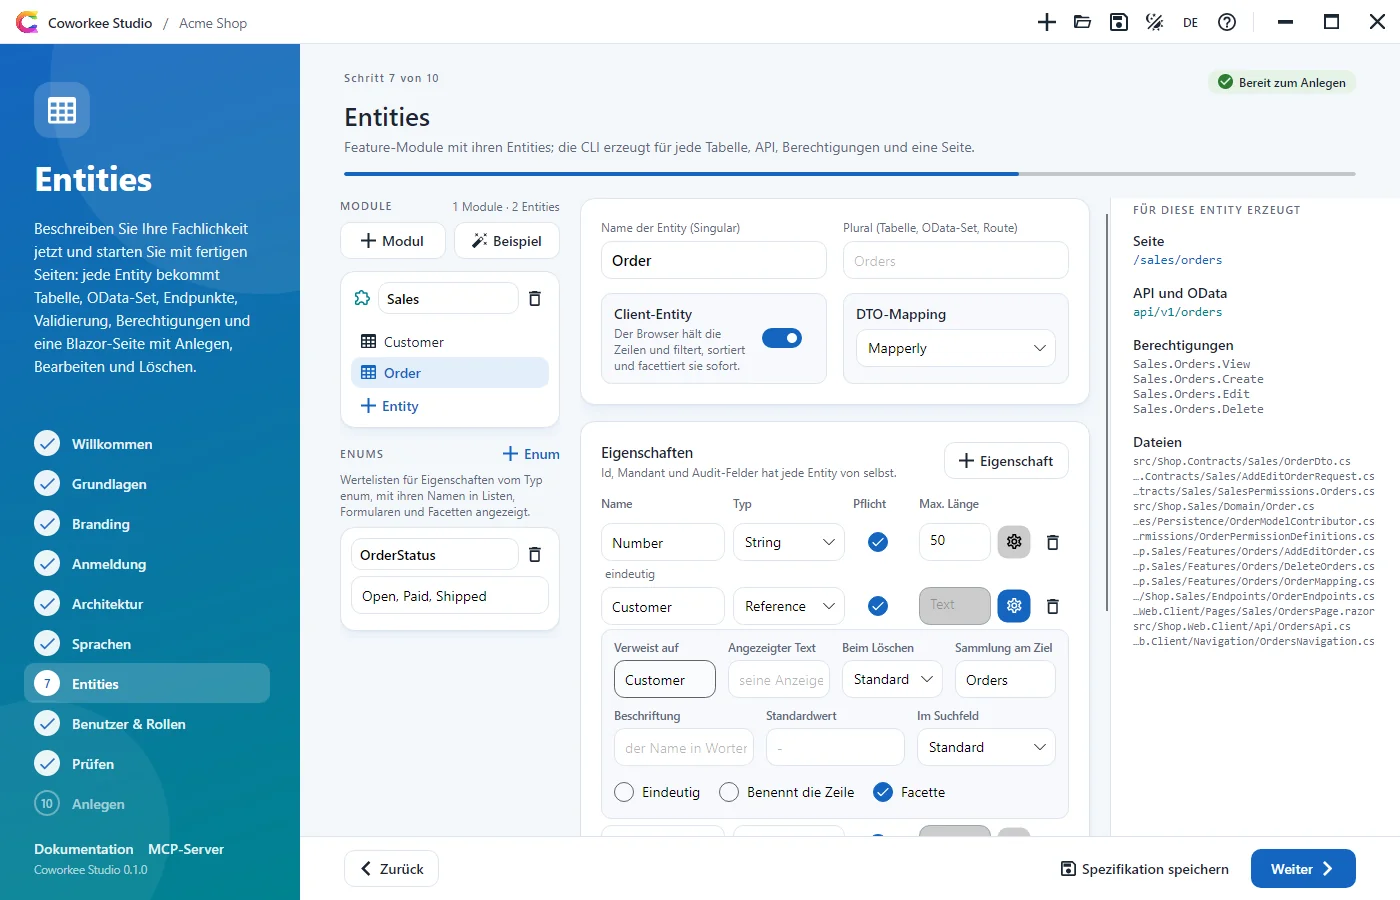
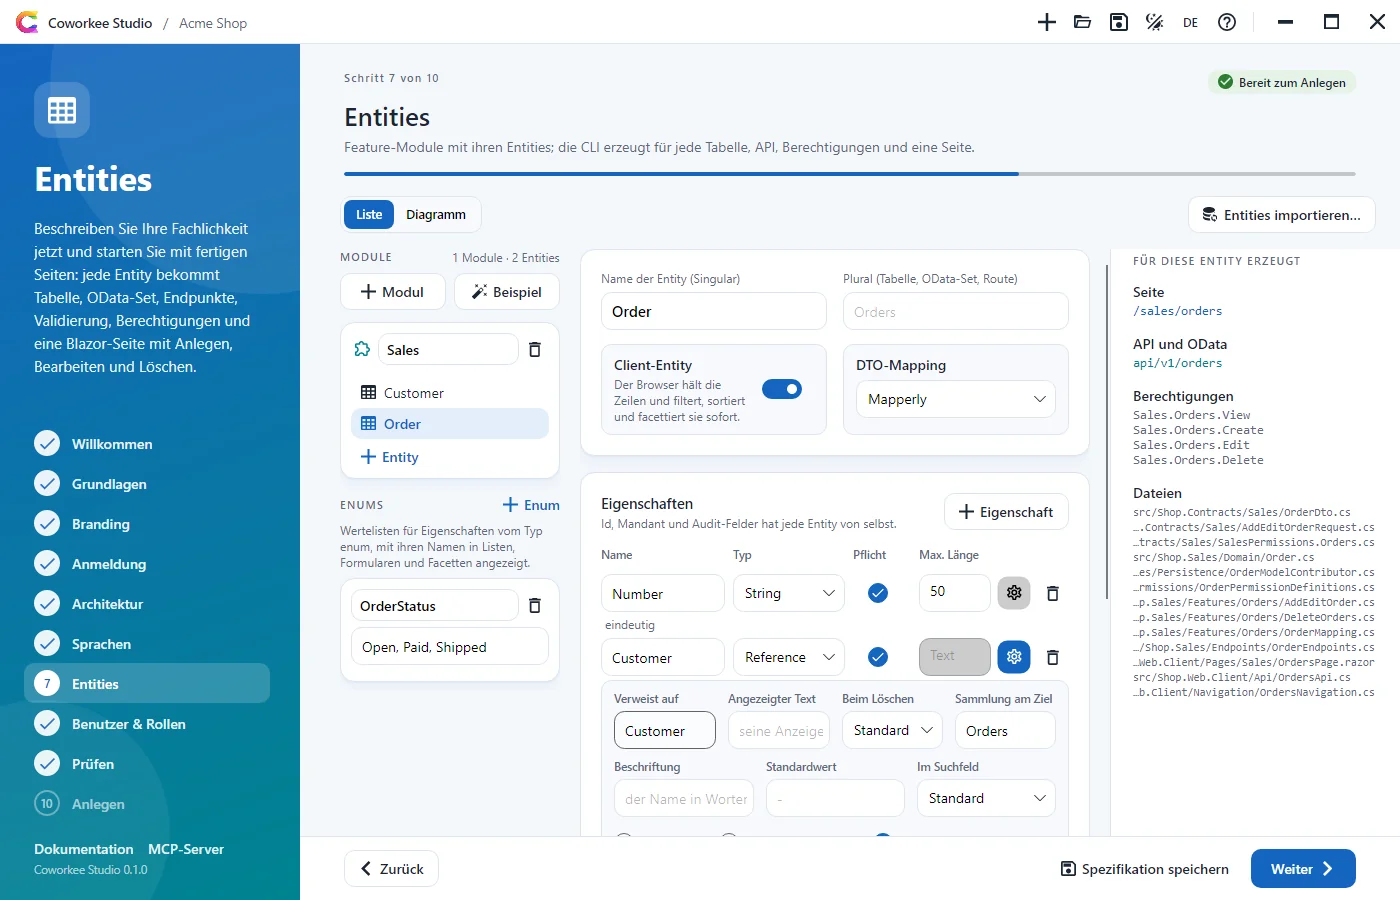
docs: entity import in the CLI, MCP and Studio pages, the entity diagram; Studio entity screenshots regenerated

diff --git a/website/docs/getting-started/cli.de.md b/website/docs/getting-started/cli.de.md
@@ -204,6 +204,28 @@ coworkee migrations add AddSales
 
 `--property` liest `Name[:typ][:required][:maxLänge][:flag][:schlüssel=wert]` (Standard: `Name:string:required:200`). Flags: `required`, `unique`, `display`, `facet`, `searchable`. Schlüssel wie in einer Spezifikation: `enum`, `ref` (oder `reference`), `referenceDisplay`, `onDelete`, `inverse`, `default`, `label`, `precision`, `scale`, `searchable`. `--enum Name=Wert1,Wert2` legt ein Enum in den Contracts an. Eine Referenz darf auf jede Entity der App mit OData-Set zeigen, erzeugt oder aus den Beispielen (`ref=Catalog.Brand`); das Modul verweist dann auf das Projekt des Ziels. `entity add` braucht ein von der CLI angelegtes Modul.
 
+## Entities importieren
+
+Du hast schon eine Datenbank, eine API oder eine Tabelle? `coworkee entity import` macht daraus ein Modul:
+
+```bash
+coworkee entity import --from db "Host=localhost;Database=shop;Username=app;Password=..." --module Legacy --tables orders,customers
+coworkee entity import --from db legacy.db --dry-run
+coworkee entity import --from openapi https://localhost:7301/openapi/v1.json --module Store
+coworkee entity import --from csv suppliers.csv --spec-out shop.json
+coworkee migrations add ImportLegacy
+```
+
+| Quelle | Was wozu wird |
+|---|---|
+| `db` (Postgres, SQL Server, SQLite) | Tabellen werden Entities, Spalten Eigenschaften mit Typ, Pflicht (not null), maximaler Länge, Stellen und Nachkommastellen, eindeutige Indizes über eine Spalte `unique`, Fremdschlüssel über eine Spalte Referenzen (mit `cascade` oder `setNull`), Enum-Typen von Postgres Enums. Den Provider errät der Befehl aus der Verbindungszeichenfolge (eine vorhandene Datei ist SQLite); `--provider` legt ihn fest. |
+| `openapi` (OpenAPI 3 oder Swagger 2, JSON) | Objekt-Schemas aus `components.schemas` werden Entities (ein Suffix `Dto` fällt weg, `allOf` wird zusammengeführt), String-Enums Enums, `$ref` Referenzen, `format` wählt Datum, Uhrzeit, UUID, E-Mail und URL; `customerId` neben einem importierten `Customer` wird ebenfalls eine Referenz. YAML-Dokumente wandelst du vorher in JSON um. |
+| `csv` | die Kopfzeile benennt die Eigenschaften, die ersten 500 Zeilen verraten ihre Typen (bool, int, long, decimal, guid, Datum, Uhrzeit, Zeitpunkt, E-Mail, URL, String mit maximaler Länge) und ob sie Pflicht sind. |
+
+Namen werden zu C#-Bezeichnern (aus `order_items` wird `OrderItems`), Tabellennamen zur Einzahl (aus `Orders` wird `Order`), Namen, die der erzeugte Code selbst nutzt, bekommen ein Suffix (aus `Task` wird `TaskItem`). Id-, Mandanten- und Audit-Spalten hat jede Entity von selbst, sie fallen weg; ein fachlicher Primärschlüssel bleibt als eindeutige Eigenschaft. Der Befehl zeigt jede Entity und was er ausgelassen hat: Verknüpfungstabellen einer Many-to-many-Beziehung (nicht unterstützt; eine eigene Entity mit zwei Referenzen erledigt das), JSON-, XML-, Binär- und Geo-Spalten, Fremdschlüssel über mehrere Spalten oder auf nicht importierte Tabellen, Listen in einer API.
+
+Ohne `--spec-out` landet das Modul direkt in der App: ein neues Modul in einem Schritt, ein vorhandenes bekommt die Entities nacheinander, referenzierte zuerst. `--spec-out` schreibt das Modul stattdessen in eine Spezifikation (eine vorhandene behält alles andere), `--dry-run` gibt nur die Spezifikation und ihre Probleme aus. Geprüft wird alles wie eine Spezifikation, bevor etwas geschrieben wird.
+
 ## Coworkee Studio
 
 ```bash

diff --git a/website/docs/getting-started/cli.md b/website/docs/getting-started/cli.md
@@ -204,6 +204,28 @@ coworkee migrations add AddSales
 
 `--property` reads `Name[:type][:required][:maxLength][:flag][:key=value]` (default: `Name:string:required:200`). Flags: `required`, `unique`, `display`, `facet`, `searchable`. Keys like in a spec: `enum`, `ref` (or `reference`), `referenceDisplay`, `onDelete`, `inverse`, `default`, `label`, `precision`, `scale`, `searchable`. `--enum Name=Value1,Value2` adds an enum to the contracts. A reference may point to every entity of the app with an OData set, generated or sample (`ref=Catalog.Brand`); the module then references the target's project. `entity add` needs a module created by the CLI.
 
+## Import entities
+
+You have a database, an API or a spreadsheet already? `coworkee entity import` turns it into a module:
+
+```bash
+coworkee entity import --from db "Host=localhost;Database=shop;Username=app;Password=..." --module Legacy --tables orders,customers
+coworkee entity import --from db legacy.db --dry-run
+coworkee entity import --from openapi https://localhost:7301/openapi/v1.json --module Store
+coworkee entity import --from csv suppliers.csv --spec-out shop.json
+coworkee migrations add ImportLegacy
+```
+
+| Source | What becomes what |
+|---|---|
+| `db` (Postgres, SQL Server, SQLite) | tables become entities, columns properties with type, required (not null), maximum length, precision and scale, single-column unique indexes `unique`, single-column foreign keys references (with `cascade` or `setNull`), Postgres enum types enums. The provider is guessed from the connection string (an existing file is SQLite); `--provider` sets it. |
+| `openapi` (OpenAPI 3 or Swagger 2, JSON) | object schemas of `components.schemas` become entities (a `Dto` suffix is dropped, `allOf` is merged), string enums enums, `$ref` references, `format` picks date, time, uuid, email and url; `customerId` next to an imported `Customer` becomes a reference too. YAML documents need converting to JSON first. |
+| `csv` | the header names the properties, the first 500 rows tell their types (bool, int, long, decimal, guid, date, time, date-time, email, url, string with a maximum length) and whether they are required. |
+
+Names become C# identifiers (`order_items` becomes `OrderItems`), table names singular (`Orders` becomes `Order`), names the generated code uses get a suffix (`Task` becomes `TaskItem`). Id, tenant and audit columns come with every entity and are left out; a natural primary key stays as a unique property. The command prints every entity and what it skipped: link tables of a many-to-many relation (not supported; an entity of its own with two references does the job), JSON, XML, binary and spatial columns, foreign keys over several columns or to tables that are not imported, lists in an API.
+
+Without `--spec-out` the module goes straight into the app: a new module in one step, an existing one gets the entities one by one, referenced ones first. `--spec-out` writes the module into a spec file instead (an existing spec keeps everything else), `--dry-run` only prints the spec and its problems. Everything is checked like a spec before anything is written.
+
 ## Coworkee Studio
 
 ```bash

diff --git a/website/docs/getting-started/studio.de.md b/website/docs/getting-started/studio.de.md
@@ -94,6 +94,14 @@ Feature-Module mit ihren Entities: Name, Plural, Client-Entity, DTO-Mapping und 
 
 ![Entities](../assets/screenshots/studio-entities-light-de.webp)
 
+**Diagramm** zeigt dieselben Entities als Kästen mit ihren Eigenschaften; Referenzen sind Linien von der Eigenschaft zum Ziel, mit `*` auf der referenzierenden Seite und `1` (Pflicht) oder `0..1` (optional, gestrichelt) am Ziel. Zieh einen Kasten, um ihn zu verschieben, zieh den Punkt an seinem Kopf auf einen anderen Kasten, um eine Referenz anzulegen (ein kleiner Dialog fragt nach Name, Pflicht und Löschverhalten), zieh den Hintergrund, um die Ansicht zu verschieben, und zoome mit dem Mausrad. Ein Klick auf einen Kasten öffnet die Entity im Editor neben dem Diagramm. **Automatisch anordnen** setzt referenzierte Entities über die, die sie referenzieren, **Als PNG exportieren** speichert das ganze Diagramm als Bild. Die Positionen stehen in der Spezifikation (`layout` einer Entity) und ändern nichts am erzeugten Code.
+
+![Entity-Diagramm](../assets/screenshots/studio-entities-diagram-light-de.webp)
+
+**Entities importieren…** liest eine Datenbank (Verbindungszeichenfolge oder SQLite-Datei), ein OpenAPI-Dokument (Datei oder Adresse) oder eine CSV-Datei, mit demselben Importer wie [`coworkee entity import`](cli.md#entities-importieren). Die Vorschau zeigt die Entities, Enums und alles, was ausgelassen wurde; **Zur Spezifikation hinzufügen** legt sie in ein Modul gleichen Namens oder in ein neues.
+
+![Entities importieren](../assets/screenshots/studio-entities-import-light-de.webp)
+
 ### Benutzer & Rollen
 
 Benutzer und Rollen für die Entwicklung, mit denen die App angelegt wird. Jeder Benutzer hat eine E-Mail, einen Anzeigenamen (ohne Angabe aus der E-Mail), ein optionales Passwort (leer wird es erzeugt), einen Schalter für Administratoren und Kästchen für die Rollen; der Administrator `admin@<name>.local` ist immer dabei. Rollen haben einen Namen, eine Beschreibung und Kästchen für die Berechtigungen, die die App haben wird: die der gewählten Module, der Beispiele und deiner Entities. Mit Keycloak bekommt der Realm dieselben Benutzer mit denselben Passwörtern.

diff --git a/website/docs/getting-started/studio.md b/website/docs/getting-started/studio.md
@@ -94,6 +94,14 @@ Feature modules with their entities: name, plural, client entity, DTO mapping an
 
 ![Entities](../assets/screenshots/studio-entities-light.webp)
 
+**Diagram** shows the same entities as boxes with their properties; references are lines from the property to the target with `*` on the referencing side and `1` (required) or `0..1` (optional, dashed) at the target. Drag a box to move it, drag the dot on its header onto another box to add a reference (a small dialog asks for name, required and delete behaviour), drag the background to pan and use the wheel to zoom. Clicking a box opens the entity in the editor beside the diagram. **Auto layout** puts referenced entities above the ones that reference them, **Export PNG** saves the whole diagram as an image. The positions are saved in the spec (`layout` of an entity) and have no effect on the generated code.
+
+![Entity diagram](../assets/screenshots/studio-entities-diagram-light.webp)
+
+**Import entities…** reads a database (connection string or SQLite file), an OpenAPI document (file or address) or a CSV file with the same importer as [`coworkee entity import`](cli.md#import-entities). The preview lists the entities, enums and everything that was skipped; **Add to the spec** puts them into a module of the same name or a new one.
+
+![Import entities](../assets/screenshots/studio-entities-import-light.webp)
+
 ### Users & roles
 
 Development users and roles the app is seeded with. Each user has an email, a display name (default: from the email), an optional password (generated when empty), an administrator switch and check boxes for the roles; the administrator `admin@<name>.local` is always there. Roles have a name, a description and check boxes for the permissions the app will have: those of the chosen modules, of the samples and of your entities. With Keycloak the realm gets the same users with the same passwords.

diff --git a/website/docs/getting-started/mcp.de.md b/website/docs/getting-started/mcp.de.md
@@ -47,6 +47,7 @@ Andere Clients nehmen denselben Befehl: `coworkee` mit dem Argument `mcp`. `cowo
 | `create_app` | `coworkee new` aus einer Spezifikation oder aus Name und Optionen, in einem Ordner; `users` fügt Benutzer für die Entwicklung hinzu (`email[:rolle,rolle][:admin]`), die Antwort listet sie mit ihren Passwörtern |
 | `add_module` | `coworkee module add` mit Entity, Eigenschaften, Client-Entity und Mapping |
 | `add_entity` | `coworkee entity add` |
+| `import_entities` | `coworkee entity import` (Datenbank, OpenAPI oder CSV) |
 | `add_migration` | `coworkee migrations add` |
 | `run_doctor` | `coworkee doctor` |
 | `update_packages` | `coworkee update` |

diff --git a/website/docs/getting-started/mcp.md b/website/docs/getting-started/mcp.md
@@ -47,6 +47,7 @@ Other clients take the same command: `coworkee` with the argument `mcp`. `cowork
 | `create_app` | `coworkee new` from a spec, or from a name and options, in a folder; `users` adds development users (`email[:role,role][:admin]`), the answer lists them with their passwords |
 | `add_module` | `coworkee module add` with entity, properties, client entity and mapping |
 | `add_entity` | `coworkee entity add` |
+| `import_entities` | `coworkee entity import` (database, OpenAPI or CSV) |
 | `add_migration` | `coworkee migrations add` |
 | `run_doctor` | `coworkee doctor` |
 | `update_packages` | `coworkee update` |

diff --git a/website/docs/screenshots.de.md b/website/docs/screenshots.de.md
@@ -145,6 +145,11 @@ Alles aus der Demo-App im Ocean-Theme. Die App-Screenshots sind auf Englisch, Co
 </figure>
 
 <figure markdown>
+![Coworkee Studio: die Entities als Diagramm](assets/screenshots/studio-entities-diagram-dark.webp){ loading=lazy }
+<figcaption>Coworkee Studio: die Entities als Diagramm</figcaption>
+</figure>
+
+<figure markdown>
 ![Coworkee Studio: die App wird angelegt](assets/screenshots/studio-generate-light-de.webp){ loading=lazy }
 <figcaption>Coworkee Studio: die App wird angelegt</figcaption>
 </figure>

diff --git a/website/docs/screenshots.md b/website/docs/screenshots.md
@@ -145,6 +145,11 @@ Everything from the demo app in the Ocean theme.
 </figure>
 
 <figure markdown>
+![Coworkee Studio: the entities as a diagram](assets/screenshots/studio-entities-diagram-dark.webp){ loading=lazy }
+<figcaption>Coworkee Studio: the entities as a diagram</figcaption>
+</figure>
+
+<figure markdown>
 ![Coworkee Studio: the app is created](assets/screenshots/studio-generate-light.webp){ loading=lazy }
 <figcaption>Coworkee Studio: the app is created</figcaption>
 </figure>
